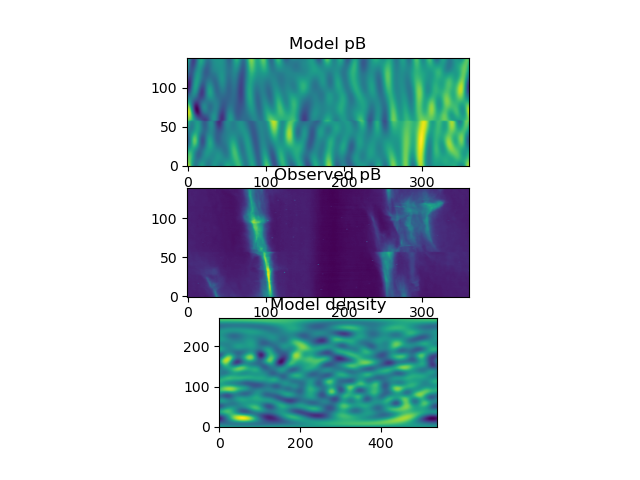
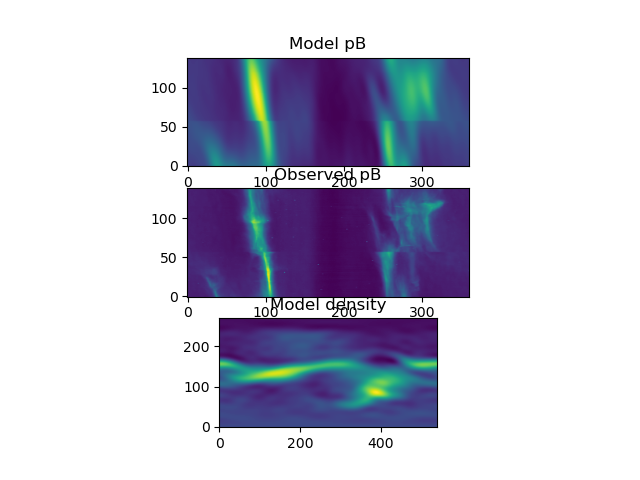
Working draft 2021/12/01

Changed region(s): [[0.2812, 0.125, 0.75, 0.3438], [0.3438, 0.6562, 0.6875, 0.9062]]

diff --git a/tomo_huw.py b/tomo_huw.py
@@ -126,7 +126,9 @@ def tikhonov_search_tomo(d,sphrecon,sphdata,geom,nl=25,ndens=20):
     npa=sh[0]
     n=npa*nt
 
-    a=np.reshape(np.ravel(sphdata["sph"]),(n,nsphdata))
+    a=np.zeros((n,nsphdata))
+    for i in np.arange(nsphdata):
+        a[:,i]=np.ravel(sphdata["sph"][:,:,i],order='F')
     mna=np.mean(np.abs(sphdata["sph"]))
     a = a/mna
 
@@ -245,6 +247,8 @@ def tomo_make_geom(d,large=True):
     xobs=coord.make_coordinates(nx,[-1,1])*xobsfact
 
     lonsc,dist,xxobs = np.meshgrid(pa,dist,xobs,indexing="ij")
+ 
+
     latsc=np.arctan2(rmain,dist)
     dx=(xobs[1]-xobs[0])*rsun_cm #is the same for all LOS
     rsc=xxobs+dist; # distance from spacecraft to each LOS point;sqrt(dist^2-rmain^2)

diff --git a/test_tikhonov_tomo.py b/test_tikhonov_tomo.py
@@ -27,8 +27,8 @@ dir="/Users/hum2/data/sweep/"
 overwrite_data=False
 overwrite_geom=False
 overwrite_sphrecon=False
-overwrite_fit=False
-overwrite_coeff=False
+overwrite_fit=True
+overwrite_coeff=True
 
 savenamed=dir+'d.pkl'
 savenamegeom=dir+'geom.pkl'
@@ -135,5 +135,7 @@ plt.subplot(3,1,3)
 plt.title("Model density")
 plt.imshow(np.transpose(dens),origin='lower')
 plt.savefig('cortom.png')
+
+plt.close()
 
 
